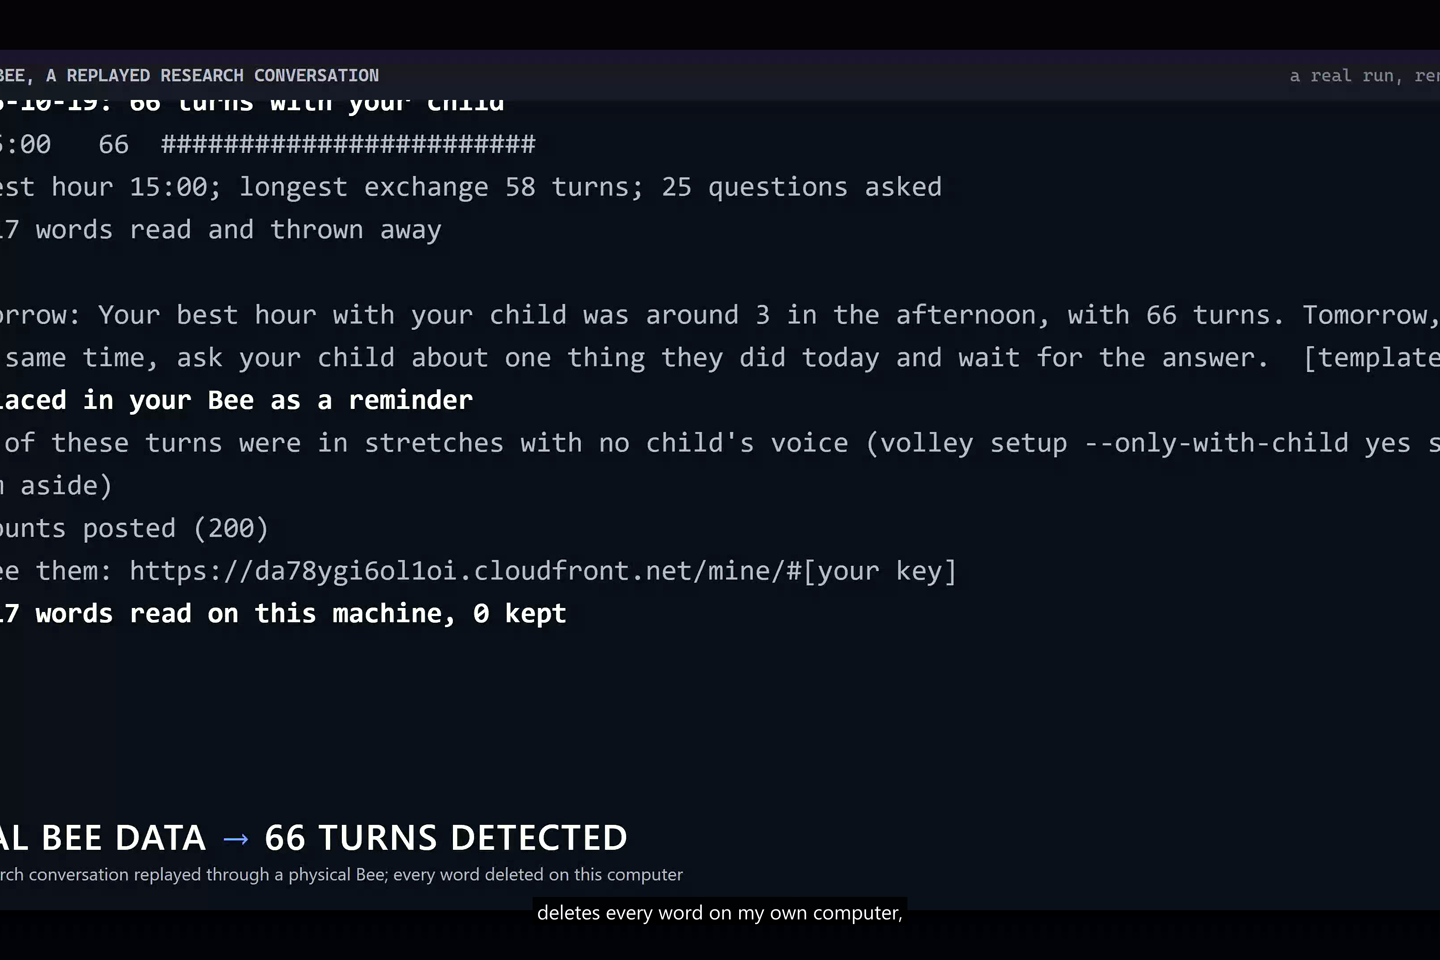
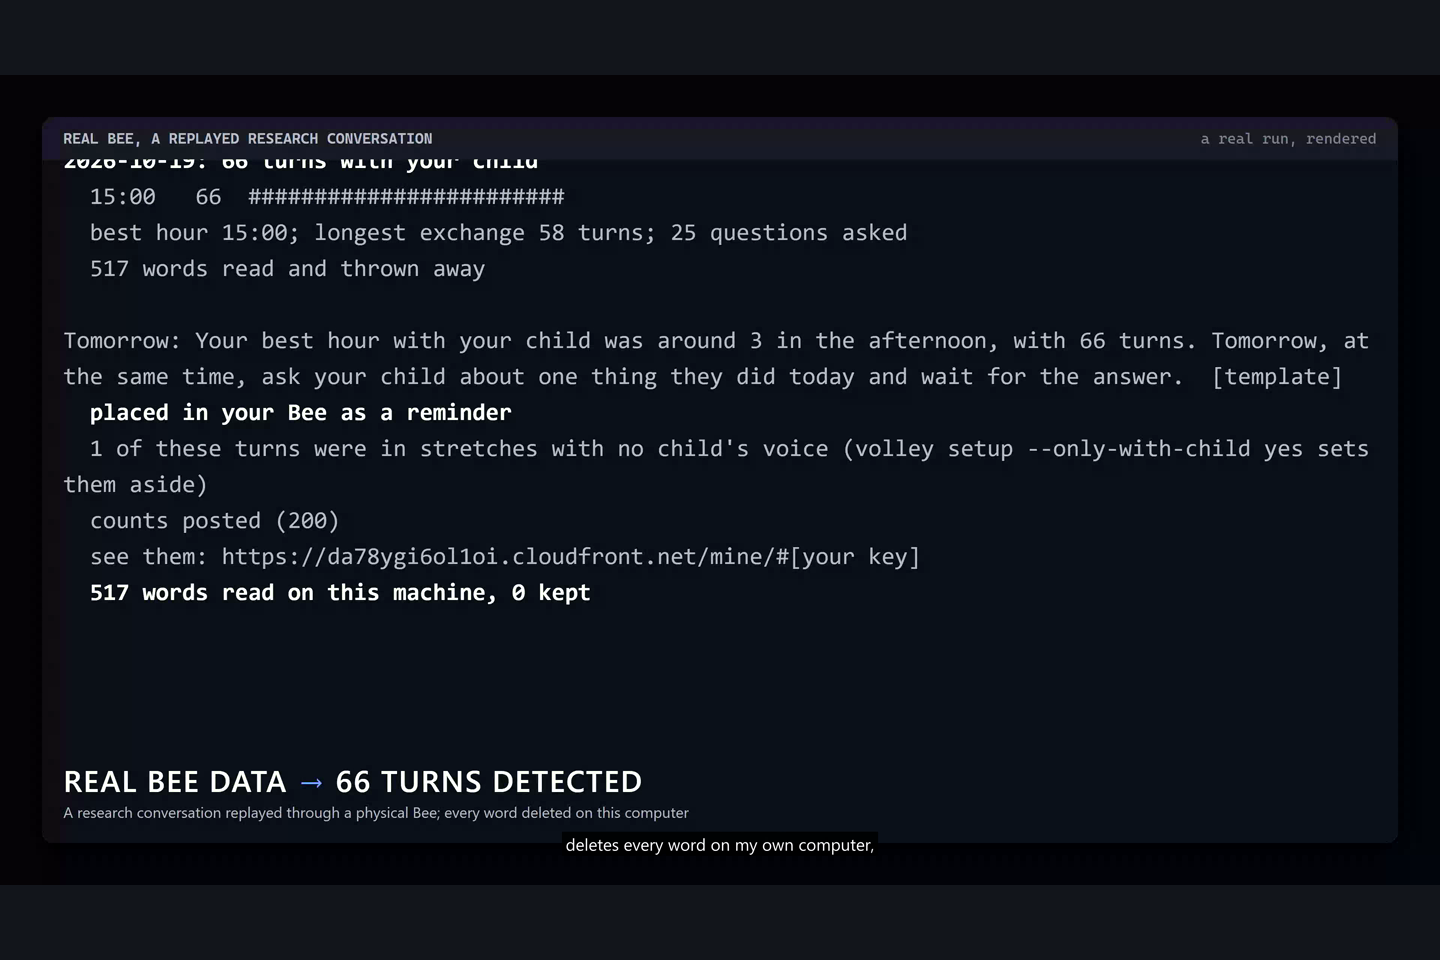
Gallery: video frames padded to 3:2, the plan shot on its heading

Changed region(s): [[0.0, 0.0625, 1.0, 0.6562], [0.0, 0.7812, 0.6562, 0.9688]]

diff --git a/docs/gallery/make.py b/docs/gallery/make.py
@@ -24,7 +24,7 @@ SHOTS = [
     ("4-measured.png", "/", "#evidence", "Every result and its verdict, the opt-in check included"),
     ("5-families-you-follow.png", "/coach/", None, "The coach's view of the families who shared"),
     ("6-how-it-counts.png", "/", "#how", "How it counts: a reply inside five seconds is one turn"),
-    ("7-the-weeks-plan.png", "/", "#day section:has(h3:has-text('plan'))", "The week's plan, written by Claude on Amazon Bedrock behind the number gate"),
+    ("7-the-weeks-plan.png", "/", "text=This week's plan", "The week's plan, written by Claude on Amazon Bedrock behind the number gate"),
     ("8-two-agents.png", "/evidence/", "#agents", "Two Strands agents that may only say what a tool returned"),
     ("9-your-own-day.png", "/", "#yours", "Your own day in ten minutes: six steps with a Bee"),
 ]
